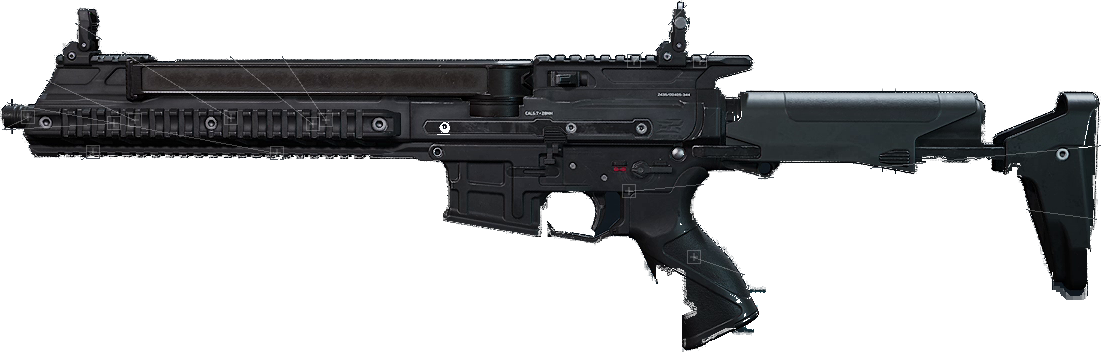
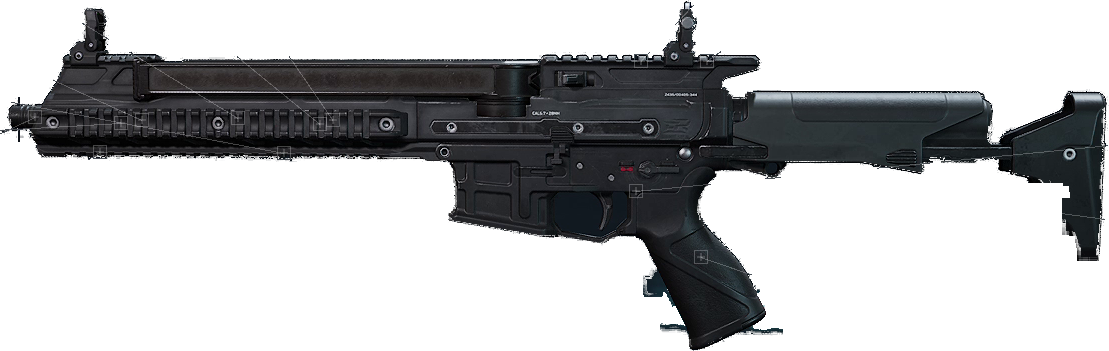
Stop the background eating the pistol grip
The grip's front face was still going missing, and the reason was not a
threshold. The background was modelled as one vertical gradient, and the
game washes a bank of cyan light bars across the floor that run
horizontally, straight behind the grip. A model that only varies with
height says the floor there is nearly black. The grip is nearly black.
So the grip stopped differing from the background and vanished out of
the middle of its own silhouette -- and no threshold could have fixed
that, because the measurement being thresholded was wrong.

The ground is read along the rows now, which is the direction the light
bars run: drop every column the rifle occupies and stretch what is left
of each row across the gap. Whatever is behind the grip continues to its
left and its right, where it can be seen.

The trap in that is what counts as "the rifle" for the purpose of
dropping it. A mask built from the strict pass misses the grip's dark
face, so the model sampled the grip and concluded that the floor behind
a pistol grip looks like a pistol grip -- the same hole by a different
road, and the previous attempt at a per-column correction fell into it.
Anything differing at all from the first guess is dropped now, except
the glow: the light bars are ground and have to stay in the reading.

Two smaller things came out of the same look. The glow blobs are sealed
by filling only small holes in their outline -- there are bars BEHIND
[…]

diff --git a/gun-ar-57.html b/gun-ar-57.html
@@ -72,8 +72,8 @@
       <span>Smith</span>
     </button>
     <img class="stage__gun" src="smith/ar-57.png" alt="AR-57"
-         style="left:24.4792%;top:33.4259%;
-                width:57.3438%;height:32.5926%">
+         style="left:24.1146%;top:33.4259%;
+                width:57.7604%;height:32.5000%">
     <svg class="stage__wires" viewBox="0 0 1920 1080" preserveAspectRatio="none"
          aria-hidden="true">
       <line data-slot="optics" x1="1249.0" y1="267.0" x2="1156" y2="366"></line>
@@ -83,8 +83,8 @@
       <line data-slot="barrel" x1="448.0" y1="324.0" x2="546" y2="385"></line>
       <line data-slot="right-rail" x1="350.0" y1="365.0" x2="516" y2="442"></line>
       <line data-slot="foregrip" x1="260.0" y1="423.0" x2="481" y2="464"></line>
-      <line data-slot="left-rail" x1="195.0" y1="506.0" x2="473" y2="490"></line>
-      <line data-slot="muzzle" x1="202.0" y1="618.0" x2="473" y2="491"></line>
+      <line data-slot="left-rail" x1="195.0" y1="506.0" x2="466" y2="491"></line>
+      <line data-slot="muzzle" x1="202.0" y1="618.0" x2="463" y2="495"></line>
       <line data-slot="rail-bipod" x1="274.0" y1="697.0" x2="551" y2="519"></line>
       <line data-slot="stock-kit" x1="1734.0" y1="490.0" x2="1569" y2="507"></line>
       <line data-slot="stock" x1="1741.0" y1="603.0" x2="1567" y2="580"></line>
@@ -309,7 +309,7 @@
     const READ = new Set(["1p-29-russian-3x-sight", "1p-33-2-4x-scope", "3-7-adjustable-scope", "416-practical-rear-grip", "acog-precision-6x-scope", "advanced-multi-caliber-suppressor", "advanced-thermal-fusion-holographic-sight", "angled-hand-stop", "ap5000-reflex-sight", "ar-heavy-grip-piece", "ar-heavy-tower-grip", "ar-light-grip-piece", "ar-modular-rear-grip", "ar-moe-rear-grip", "ar57-wave-blaster-ultra-long-barrel", "balanced-grip-base", "bastion-horizontal-compensator", "birdcage-flash-hider", "blazing-fire-suppressor", "cobra-accuracy-sight", "cobweb-titanium-muzzle-brake", "collapsible-bipod-grip", "combat-red-dot-sight", "competition-hand-stop", "cr-prism-hand-stop", "dawn-angled-flashlight-grip", "daybreak-vertical-flashlight-grip", "dbal-x2-purple-laser-light-combo", "dd-python-handguard-panel", "ec-universal-front-hand-stop", "flare-tactical-flashlight", "folding-grip", "grizzly-full-p-mag-assist-black", "grizzly-full-p-mag-assist-green", "grizzly-full-p-mag-assist-sand", "hamr-combined-scope", "holographic-sight", "holographic-sight-type-ii", "honeycomb-killflash", "hornet-handguard", "hurricane-d-1-rear-grip", "insight-3-7-sniper-scope", "invasion-rear-grip", "k1-elite-bevel-foregrip", "kc-hound-handguard", "la-3c-green-laser-light-combo", "lpvo-scope", "m157-fire-control-system", "m7-6-8-45-round-drum-mag", "m7-practical-suppressor", "m7-stable-rear-grip", "marksman-d-2-rear-grip", "meo-micro-sight-riser", "micro-sight-riser", "mini-hand-stop", "mini-red-dot-sight", "modular-handguard-panel", "multi-purpose-tactical-riser", "offset-combat-red-dot-sight", "offset-mini-red-dot-sight", "offset-osight-red-dot", "offset-panoramic-red-dot-sight", "offset-xro-quick-response-sight", "okp-7-reflex-sight", "olight-baldr-pro-r-multi-function-flashlight", "olight-odin-s-tactical-flashlight", "olight-warrior-3s-tactical-flashlight", "osight-red-dot", "panoramic-red-dot-sight", "peq-2-red-laser-light-combo", "perst-7-blue-laser-light-combo", "phantom-rear-grip", "phantom-vertical-foregrip", "phase-combat-foregrip", "poseidon-flash-hider", "practical-bipod", "practical-flash-hider", "practical-suppressor", "practical-vertical-foregrip", "practical-weapon-light", "prism-universal-2x-optic", "ranger-handguard", "recon-1-5-5-adjustable-scope", "reflex-sight", "resonant-ergonomic-grip", "resonant-mk-iii-grip", "resonant-mkii-foregrip", "rk-0-foregrip", "rm277-breaker-suppressor", "rm277-cheek-pad", "rm277-heavy-integral-barrel", "rm277-pad", "rm277-whale-shark-barrel-combo", "russian-accuracy-2x-scope", "sandstorm-vertical-compensator", "secret-order-bevel-foregrip", "silent-suppressor", "spiral-fire-flash-hider", "stable-grip-base", "steel-muzzle-brake", "tactical-angled-foregrip", "tactical-vertical-foregrip", "titanium-contest-muzzle-brake", "uhx-holographic-sight", "vfg-knight-foregrip", "viewpoint-3x-scope", "vmx-frameless-sight", "whisper-tactical-suppressor", "white-phosphor-thermal-scope", "x25u-angled-combat-grip", "xcog-assault-3-5x-scope", "xro-quick-response-sight", "zfsg-tactical-grip"]);
     const DELTA = {"ar57-wave-blaster-ultra-long-barrel": {"Range": 11, "Control": 9, "Handling": -7, "Stability": 4, "Accuracy": -12}};
     const OPENS = {"ar57-wave-blaster-ultra-long-barrel": {"grants": ["upper-rail"], "blocks": []}};
-    const LAYOUTS = [{"when": [], "blocks": [], "chips": {"optics": {"x": 1214, "y": 232, "ax": 1156, "ay": 366}, "offset-optics": {"x": 1325, "y": 252, "ax": 1177, "ay": 416}, "right-patch": {"x": 618, "y": 237, "ax": 753, "ay": 420}, "left-patch": {"x": 514, "y": 259, "ax": 700, "ay": 417}, "barrel": {"x": 413, "y": 289, "ax": 546, "ay": 385}, "right-rail": {"x": 315, "y": 330, "ax": 516, "ay": 442}, "foregrip": {"x": 225, "y": 388, "ax": 481, "ay": 464}, "left-rail": {"x": 160, "y": 471, "ax": 473, "ay": 490}, "muzzle": {"x": 167, "y": 583, "ax": 473, "ay": 491}, "rail-bipod": {"x": 239, "y": 662, "ax": 551, "ay": 519}, "stock-kit": {"x": 1699, "y": 455, "ax": 1569, "ay": 507}, "stock": {"x": 1706, "y": 568, "ax": 1567, "ay": 580}, "rear-grip": {"x": 1527, "y": 720, "ax": 1213, "ay": 636}}}];
+    const LAYOUTS = [{"when": [], "blocks": [], "chips": {"optics": {"x": 1214, "y": 232, "ax": 1156, "ay": 366}, "offset-optics": {"x": 1325, "y": 252, "ax": 1177, "ay": 416}, "right-patch": {"x": 618, "y": 237, "ax": 753, "ay": 420}, "left-patch": {"x": 514, "y": 259, "ax": 700, "ay": 417}, "barrel": {"x": 413, "y": 289, "ax": 546, "ay": 385}, "right-rail": {"x": 315, "y": 330, "ax": 516, "ay": 442}, "foregrip": {"x": 225, "y": 388, "ax": 481, "ay": 464}, "left-rail": {"x": 160, "y": 471, "ax": 466, "ay": 491}, "muzzle": {"x": 167, "y": 583, "ax": 463, "ay": 495}, "rail-bipod": {"x": 239, "y": 662, "ax": 551, "ay": 519}, "stock-kit": {"x": 1699, "y": 455, "ax": 1569, "ay": 507}, "stock": {"x": 1706, "y": 568, "ax": 1567, "ay": 580}, "rear-grip": {"x": 1527, "y": 720, "ax": 1213, "ay": 636}}}];
     const FW = 1920, FH = 1080, CHIP = 70;
     const SLOTS = [{"id": "muzzle", "label": "Muzzle"}, {"id": "barrel", "label": "Barrel"}, {"id": "handguard", "label": "Handguard"}, {"id": "foregrip", "label": "Foregrip"}, {"id": "upper-rail", "label": "Upper Rail"}, {"id": "left-rail", "label": "Left Rail"}, {"id": "right-rail", "label": "Right Rail"}, {"id": "left-patch", "label": "Left Patch"}, {"id": "right-patch", "label": "Right Patch"}, {"id": "rail-bipod", "label": "Rail Bipod"}, {"id": "optics", "label": "Optics"}, {"id": "riser-optics", "label": "Riser Optics"}, {"id": "red-dot-optics", "label": "Red Dot Optics"}, {"id": "offset-optics", "label": "Offset Optics"}, {"id": "kill-flash", "label": "Killflash"}, {"id": "tactical-device", "label": "Tactical Device"}, {"id": "mag", "label": "Magazine"}, {"id": "mag-mount", "label": "Magazine Mount"}, {"id": "rear-grip", "label": "Rear Grip"}, {"id": "rear-grip-patch", "label": "Rear Grip Patch"}, {"id": "rear-grip-mount", "label": "Rear Grip Mount"}, {"id": "stock-kit", "label": "Stock Kit"}, {"id": "stock", "label": "Stock"}, {"id": "cheek-pad", "label": "Cheek Pad"}, {"id": "stock-pad", "label": "Stock Pad"}, {"id": "functional", "label": "Functional"}];
     const FORGE_SRC = "\n// Which slots exist depends on what is fitted, so a slot has to be visited\n// after anything that can open or shut it. Sorted here rather than written\n// down: the rules already say who opens what.\nfunction order(pool, opens, base) {\n  const slots = Object.keys(pool);\n  const slotOf = {};\n  for (const s of slots)\n    for (const i of pool[s]) (slotOf[i] = slotOf[i] || []).push(s);\n  const after = {};\n  for (const s of slots) after[s] = new Set();\n  for (const [iid, r] of Object.entries(opens))\n    for (const home of slotOf[iid] || [])\n      for (const t of (r.grants || []).concat(r.blocks || []))\n        if (after[t]) after[t].add(home);\n  // One at a time, and the moment a slot places, place everything it just\n  // unlocked. Taking them in waves instead -- every base slot, then every\n  // granted one -- leaves the state split all the way to the end, and the set\n  // being carried grows fourteen times bigger before it collapses.\n  const out = [], done = new Set();\n  const ready = (s) => !done.has(s)\n    && [...after[s]].every((d) => done.has(d) || d === s);\n  const place = (s) => {\n    out.push(s);\n    done.add(s);\n    for (const t of slots) if (ready(t) && after[t].size) place(t);\n  };\n  // And take the slots that open or shut something before the ones that do\n  // not. Every branch in the state is resolved early that way, so the merge\n  // fires early and the big slots -- the foregrip and the rails, where the\n  // options are -- are worked through once instead of once per branch.\n  const opener = new Set();\n  for (const [iid, r] of Object.entries(opens))\n    if ((r.grants || []).length || (r.blocks || []).length)\n      for (const home of slotOf[iid] || []) opener.add(home);\n  const first = slots.filter((s) => opener.has(s));\n  for (const s of first) if (ready(s)) place(s);\n  for (const s of slots) if (ready(s)) place(s);\n  for (const s of slots) if (!done.has(s)) place(s);   // cycles cannot hang it\n  return out;\n}\n\nconst has = (set, slot) => set.includes('|' + slot + '|');\n\nfunction step(open_, blocked, iid, opens) {\n  const r = opens[iid] || {};\n  let o = open_, b = blocked;\n  for (const g of r.grants || []) if (!has(o, g)) o += g + '|';\n  for (const x of r.blocks || []) if (!has(b, x)) b += x + '|';\n  return [o, b];\n}\n\n// How many builds there are, which is not the same as how many are worth\n// looking at. Counted exactly, by remembering the count per state rather than\n// by visiting anything.\nfunction census(ORDER, pool, opens, base) {\n  const memo = new Map();\n  function go(k, open_, blocked) {\n    if (k === ORDER.length) return 1;\n    const key = k + open_ + ' ' + blocked;\n    const hit = memo.get(key);\n    if (hit !== undefined) return hit;\n    const slot = ORDER[k];\n    let n = go(k + 1, open_, blocked);\n    if ((base.has(slot) || has(open_, slot)) && !has(blocked, slot))\n      for (const iid of pool[slot]) {\n        const [o, b] = step(open_, blocked, iid, opens);\n        n += go(k + 1, o, b);\n      }\n    memo.set(key, n);\n    return n;\n  }\n  return go(0, '|', '|');\n}\n\n// Keep the rows nothing else beats. Sorting by the total first means the\n// strong rows are tested against almost nothing and the weak ones die against\n// the first thing they meet, which is what keeps this quick in practice.\nfunction prune(rows, D) {\n  rows.sort((a, b) => b.sum - a.sum);\n  const keep = [];\n  outer:\n  for (const r of rows) {\n    for (const k of keep) {\n      let beats = true;\n      for (let d = 0; d < D; d++) if (k.v[d] < r.v[d]) { beats = false; break; }\n      if (beats) continue outer;        // equal counts as beaten: no repeats\n    }\n    keep.push(r);\n  }\n  return keep;\n}\n\nonmessage = ({data}) => {\n  const {pool, delta, opens, base, keys} = data;\n  const D = keys.length;\n  const BASE = new Set(base);\n  const ORDER = order(pool, opens, BASE);\n  const cares = new Set();\n  for (const r of Object.values(opens))\n    for (const s of (r.grants || []).concat(r.blocks || [])) cares.add(s);\n\n  postMessage({say: 'Counting what there is to look through'});\n  postMessage({total: census(ORDER, pool, opens, BASE)});\n\n  // A slot where nothing on record moves anything, and which opens and shuts\n  // nothing either, cannot change the answer -- so it is said out loud and\n  // stepped over. Said out loud because a slot with no numbers against it is a\n  // gap in the reading, not a slot that does nothing.\n  const idle = (slot) => pool[slot].every((i) =>\n    !opens[i] && (delta[i] || []).every((x) => !x));\n\n  let cur = new Map([['| |', [{v: new Int16Array(D), sum: 0, fit: []}]]]);\n  for (let k = 0; k < ORDER.length; k++) {\n    const slot = ORDER[k];\n    if (idle(slot)) {\n      postMessage({step: k + 1, of: ORDER.length, slot, idle: true});\n      continue;\n    }\n    const next = new Map();\n    let raw = 0;\n    for (const [st, rows] of cur) {\n      const [open_, blocked] = st.split(' ');\n      const live = (BASE.has(slot) || has(open_, slot)) && !has(blocked, slot);\n      for (const iid of [null].concat(live ? pool[slot] : [])) {\n        const [o, b] = iid ? step(open_, blocked, iid, opens) : [open_, blocked];\n        const key = o + ' ' + b;\n        let bucket = next.get(key);\n        if (!bucket) next.set(key, bucket = []);\n        const dv = iid ? delta[iid] : null;\n        for (const row of rows) {\n          raw++;\n          if (!dv) { bucket.push(row); continue; }\n          const v = new Int16Array(row.v);\n          let sum = row.sum;\n          for (let d = 0; d < D; d++) { v[d] += dv[d]; sum += dv[d]; }\n          bucket.push({v, sum, fit: row.fit.concat([[slot, iid]])});\n        }\n      }\n    }\n    // Once nothing left can be opened or taken away, the states are the same\n    // story told twice and can be merged into one.\n    let merged = next;\n    if (!ORDER.slice(k + 1).some((s) => cares.has(s))) {\n      // Concatenated, not spread: pushing thirty thousand arguments at once\n      // is thirty thousand stack slots, and the browser says so.\n      let all = [];\n      for (const rows of next.values()) all = all.concat(rows);\n      merged = new Map([['| |', all]]);\n    }\n    let kept = 0;\n    for (const [key, rows] of merged) {\n      const cut = prune(rows, D);\n      merged.set(key, cut);\n      kept += cut.length;\n    }\n    cur = merged;\n    postMessage({step: k + 1, of: ORDER.length, slot, raw, kept});\n  }\n\n  let all = [];\n  for (const rows of cur.values()) all = all.concat(rows);\n  postMessage({done: prune(all, D).map((r) => ({v: [...r.v], fit: r.fit}))});\n};\n";

diff --git a/tools/cut-gunsmith-ar57.py b/tools/cut-gunsmith-ar57.py
@@ -12,23 +12,40 @@ did the RM277.
 
 CUTTING THE RIFLE OFF THE GROUND
 
-The first pass at this thresholded the difference from a modelled background
-and opened the result with a 3x3, which is a fine way to shed speckle and a
-reliable way to lose every part of a rifle thinner than three pixels. It lost
-two: the rod that carries the folding stock's buttplate, which then floated
-free with a gap of nothing behind it, and a long sliver of the top rail. It
-also drew the line between "cyan glow" and "cool grey metal" at the wrong
-place, and took the top of the buffer tube out of its own silhouette.
+Three things went wrong with the first pass at this, and they pull in different
+directions.
 
-What replaces it measures the same thing and decides differently. The ground is
-modelled per column, corrected by what the floor actually looks like just above
-and below the rifle in that column, so the game's ambient glow does not read as
-a cloud of not-background hanging off the pistol grip. And the decision uses
-two thresholds rather than an erosion: one high enough that anything over it is
-certainly the gun, one low enough that nothing of the gun falls under it, with
-the low mask kept only where it joins the high one. A two-pixel rod then
-survives on the strength of what it bridges, while the leader lines the game
-draws across the frame are dropped for joining nothing.
+It ATE THE RIFLE: a 3x3 opening shed speckle and, with it, the rod carrying the
+folding stock's buttplate -- which then floated free with a gap of nothing
+behind it -- and a long sliver of the top rail. So the decision is made with
+two thresholds instead of an erosion now. One high enough that anything over it
+is certainly the gun, one low enough that nothing of the gun falls under it,
+and the low mask kept only where it joins the high one. A two-pixel rod
+survives on the strength of what it bridges; the leader lines the game draws
+across the frame are dropped for joining nothing.
+
+It CUT THE BUFFER TUBE out of its own silhouette, because the test separating
+the game's cyan floor glow from the rifle was a plain blue-minus-red difference
+drawn at 20, and the coldest metal on this gun measures 20. A ratio separates
+them properly, and the glow's washed-out white middles are recovered by sealing
+each blob inside its own cyan outline.
+
+And it LOST THE PISTOL GRIP into the floor. That one is the deepest. The
+background was modelled as a single vertical gradient, but the game washes a
+bank of cyan light bars across the floor and those run horizontally, straight
+behind the grip. A model that only varies with height says the floor there is
+nearly black; the grip is nearly black; so the grip stopped differing from the
+background and vanished out of the middle of its own silhouette. No threshold
+could have fixed that, because the measurement being thresholded was wrong.
+
+The ground is therefore read ALONG THE ROWS, which is the direction the light
+bars run: drop every column the rifle occupies and stretch what is left of each
+row across the gap. Whatever is behind the grip continues to its left and its
+right, where it can be seen. The one trap is what counts as "the rifle" for
+that purpose -- a mask that misses the grip's dark face lets the model sample
+the grip and conclude the floor behind a pistol grip looks like a pistol grip,
+which is the same hole by a different road -- so anything differing at all from
+the first guess is dropped, except the glow, which is ground and has to stay.
 """
 import json
 import numpy as np
@@ -117,9 +134,19 @@ glow = (a[:, :, 2] > 1.5 * a[:, :, 0] + 10) & (a.mean(axis=2) > 40)
 # Each blob of the glow has a white-hot middle where the colour washes out and
 # the ratio says nothing. The ratio does catch the cyan fringe all the way
 # round it, so the blob is recovered as the inside of its own outline: close
-# the ring, fill it, and the middle comes with it.
-glow = ndimage.binary_fill_holes(
-    ndimage.binary_closing(glow, np.ones((15, 15))))
+# the ring and fill it, and the middle comes with it.
+#
+# Only small holes, though. There are blobs behind the pistol grip as well as
+# beside it, and closing the ring around THOSE encloses the grip -- fill that
+# and the glow mask swallows the front half of it, which is what took a bite
+# out of the grip's leading edge. A blob's washed-out middle is a thousand
+# pixels; the grip is ten thousand. The cap is the difference.
+glow = ndimage.binary_closing(glow, np.ones((15, 15)))
+_h, _n = ndimage.label(~glow)
+_edge = set(np.unique(np.concatenate([_h[0], _h[-1], _h[:, 0], _h[:, -1]])))
+_sz = ndimage.sum(~glow, _h, range(1, _n + 1))
+glow |= np.isin(_h, [i + 1 for i, z in enumerate(_sz)
+                     if z < 3000 and (i + 1) not in _edge])
 neutral = ~glow
 
 # ---- the ground ----------------------------------------------------------
@@ -130,55 +157,44 @@ top, bot = np.median(a[334:356], axis=0), np.median(a[810:870], axis=0)
 t = np.clip((np.arange(H, dtype=np.float32) - 345) / 495, 0, 1)[:, None, None]
 bg = top[None] * (1 - t) + bot[None] * t
 
-# A rifle-shaped guess, only good enough to say which rows of a column are
-# ground. Deliberately strict: it may miss half the thin work and still bound
-# the silhouette correctly.
-rough = (np.abs(a - bg).sum(axis=2) > 45) & where & neutral
-rough = ndimage.binary_closing(rough, np.ones((11, 11)))
-lab, n = ndimage.label(rough)
-if n:
-    sizes = ndimage.sum(rough, lab, range(1, n + 1))
-    rough = lab == (int(np.argmax(sizes)) + 1)
-rough = ndimage.binary_fill_holes(rough)
-
-# What the ground in each column actually looks like just clear of the rifle,
-# as a correction on the first guess. PAD keeps the sample off the silhouette's
-# own soft edge; SPAN is how much ground to average.
-PAD, SPAN = 10, 26
-resid = a - bg
-corr = np.zeros_like(a)
-cols = np.where(rough.any(axis=0))[0]
-lo = np.full(W, -1); hi = np.full(W, -1)
-for x in cols:
-    ys = np.where(rough[:, x])[0]
-    lo[x], hi[x] = ys.min(), ys.max()
-
-def band(x, y0, y1):
-    """What the ground looks like in this column between these rows.
-
-    The glow is skipped. Under the grip the band below the rifle lands square
-    on it, and a background estimate taken there says the floor is four times
-    as bright as it is -- which then makes the grip's own shadow, a little
-    darker than the floor, look more different from the background than the
-    rifle does.
-    """
-    y0, y1 = max(Y0, y0), min(Y1, y1)
-    if y1 <= y0:
-        return np.zeros(3, np.float32)
-    seg, ok = resid[y0:y1, x], ~glow[y0:y1, x]
-    return np.median(seg[ok] if ok.sum() >= 4 else seg, axis=0)
-
-
-above = np.zeros((W, 3), np.float32); below = np.zeros((W, 3), np.float32)
-for x in cols:
-    above[x] = band(x, lo[x] - PAD - SPAN, lo[x] - PAD)
-    below[x] = band(x, hi[x] + PAD, hi[x] + PAD + SPAN)
-
-yy = np.arange(H, dtype=np.float32)
-for x in cols:
-    y0, y1 = float(lo[x] - PAD), float(hi[x] + PAD)
-    f = np.clip((yy - y0) / max(1.0, y1 - y0), 0, 1)[:, None]
-    corr[:, x] = above[x][None] * (1 - f) + below[x][None] * f
+# What the ground behind the rifle looks like, read along the rows.
+#
+# The vertical gradient is most of the answer and not all of it: the game
+# washes a bank of cyan light bars across the floor, and those run
+# horizontally, straight behind the pistol grip. A model that only varies with
+# height says the floor there is nearly black. The grip is nearly black. So the
+# grip stopped differing from the background and disappeared out of the middle
+# of its own silhouette -- a hole no threshold could have fixed, because the
+# measurement being thresholded was wrong.
+#
+# Reading along the row fixes it, because that is the direction the light bars
+# run: whatever is behind the grip continues to its left and to its right,
+# where it can be seen. Every column of the rifle is dropped, and what is left
+# of each row is stretched across the gap. Where the rifle spans most of a row
+# -- the barrel and receiver -- the stretch is long, and there the ground
+# really is just the gradient, so a straight line between the two ends of it is
+# the right answer anyway.
+# What to leave out of the reading. Not the strict guess -- that misses the
+# darkest parts of the rifle, and a background model that samples the pistol
+# grip concludes the floor behind the grip looks like a pistol grip, which is
+# the same hole by a different road. Anything that differs at all from the
+# first guess is dropped, EXCEPT the glow: the light bars are ground, and the
+# whole point of reading along the row is to carry them behind the gun.
+hide = (np.abs(a - bg).sum(axis=2) > 20) & ~glow
+hide = ndimage.binary_dilation(hide, np.ones((3, 3)), iterations=6)
+_l, _n = ndimage.label(hide)
+_z = ndimage.sum(hide, _l, range(1, _n + 1))
+hide = np.isin(_l, [i + 1 for i, v in enumerate(_z) if v > 200])
+for c in chips:                       # the chips are not ground either
+    hide[max(0, c['y'] - 24):c['y'] + S + 6, max(0, c['x'] - 8):c['x'] + S + 8] = True
+resid, corr = a - bg, np.zeros_like(a)
+xs_all = np.arange(W, dtype=np.float32)
+for y in range(H):
+    ok = np.where(~hide[y])[0]
+    if len(ok) < 2:
+        continue
+    for ch in range(3):
+        corr[y, :, ch] = np.interp(xs_all, ok.astype(np.float32), resid[y, ok, ch])
 bg2 = bg + corr
 d = np.abs(a - bg2).sum(axis=2)
 
@@ -193,14 +209,13 @@ weak &= ndimage.uniform_filter(weak.astype(np.float32), 5) * 25 >= 12
 lab, n = ndimage.label(weak)
 keep = set(np.unique(lab[strong])) - {0}
 m = np.isin(lab, list(keep))
-# And only near it, so a run of leader line that happens to touch the barrel
-# does not trail forty pixels of hairline off the front sight.
-# And near the rifle. `rough` is deliberately strict, so it is a poor
-# silhouette and an excellent bound: it says where the rifle IS, to within a
-# dozen pixels, and everything the ground still contributes -- the shadow the
-# grip throws on the lit floor, the hairline of a leader line -- is a hundred
-# pixels away from it. Every substantial strict piece, not just the largest,
-# so the buttplate across its gap bounds itself.
+# And near the rifle. A strict pass over the corrected background is a poor
+# silhouette and an excellent bound: it says where the rifle IS to within a
+# dozen pixels, so a run of leader line that happens to touch the barrel does
+# not trail forty pixels of hairline off the front sight, and what the ground
+# still contributes -- the shadow the grip throws on the lit floor -- is far
+# enough away to be dropped. Every substantial piece of it, not just the
+# largest, so the buttplate across its gap bounds itself.
 strict = (np.abs(a - bg2).sum(axis=2) > 45) & where & neutral
 strict = ndimage.binary_closing(strict, np.ones((7, 7)))
 slab, sn = ndimage.label(strict)
@@ -209,20 +224,6 @@ strict = np.isin(slab, [i + 1 for i, sz in enumerate(ssz) if sz > 800])
 near = ndimage.binary_dilation(ndimage.binary_fill_holes(strict),
                                np.ones((3, 3)), iterations=16)
 m &= near
-# A column of the picture holds the rifle between two heights and nothing
-# above or below them. The grip throws a shadow on the lit floor a few pixels
-# under its toe, and a shadow is as different from the ground as the thing
-# casting it -- so it is excluded by where it is rather than by what it looks
-# like. Columns the strict mask never reached keep everything: that is where
-# the thin work lives, and it is already bounded by `near`.
-sf = ndimage.binary_fill_holes(strict)
-band = np.zeros_like(m)
-for x in np.where(sf.any(axis=0))[0]:
-    ys_ = np.where(sf[:, x])[0]
-    band[max(0, ys_.min() - 8):ys_.max() + 9, x] = True
-band[:, ~sf.any(axis=0)] = True
-m &= band
-
 m = ndimage.binary_fill_holes(ndimage.binary_closing(m, np.ones((5, 5))))
 lab, n = ndimage.label(m)
 sizes = ndimage.sum(m, lab, range(1, n + 1))
@@ -251,6 +252,16 @@ alpha[(a[:, :, 2] > 1.3 * a[:, :, 0] + 8) & (a.mean(axis=2) > 55)] = 0
 # works in that one neighbourhood.
 alpha[ndimage.binary_dilation(glow, np.ones((3, 3)), iterations=6)
       & (a.mean(axis=2) > 72)] = 0
+# The two colour trims above work pixel by pixel and can punch a pinhole in the
+# middle of the rifle -- one screw head bright enough and cool enough at once.
+# A hole a few dozen pixels across, entirely surrounded by gun, is a mistake by
+# construction: nothing that small is background.
+solid = alpha > 0.02
+gaps = ndimage.binary_fill_holes(solid) & ~solid
+_l, _n = ndimage.label(gaps)
+_z = ndimage.sum(gaps, _l, range(1, _n + 1))
+alpha[np.isin(_l, [i + 1 for i, v in enumerate(_z) if v < 80])] = 1.0
+
 m = alpha > 0.02
 
 ys, xs = np.where(m)
